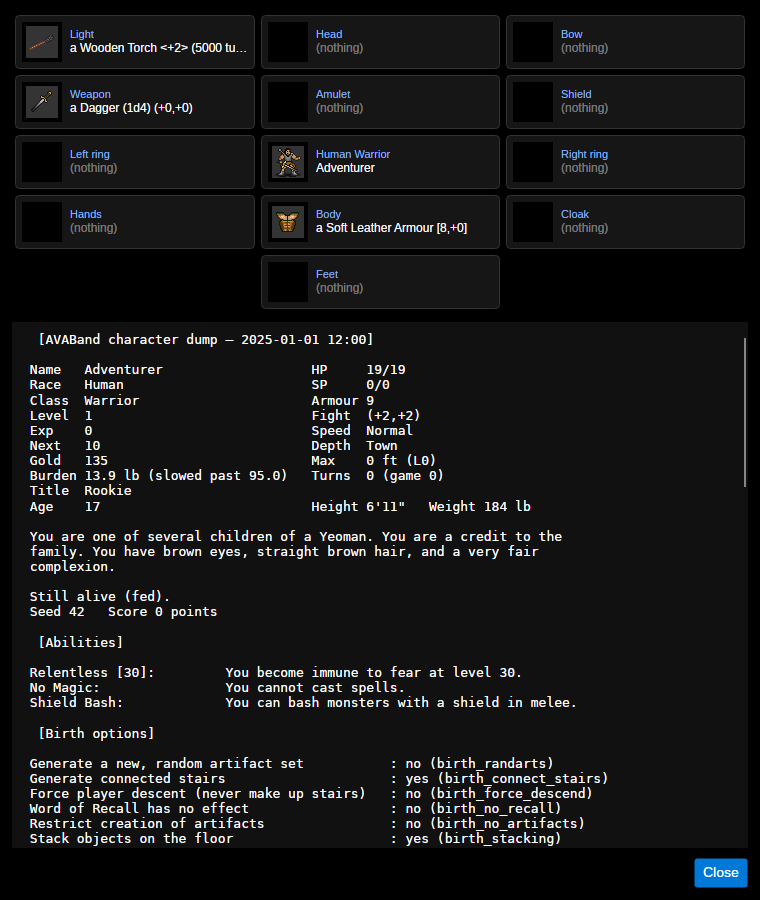
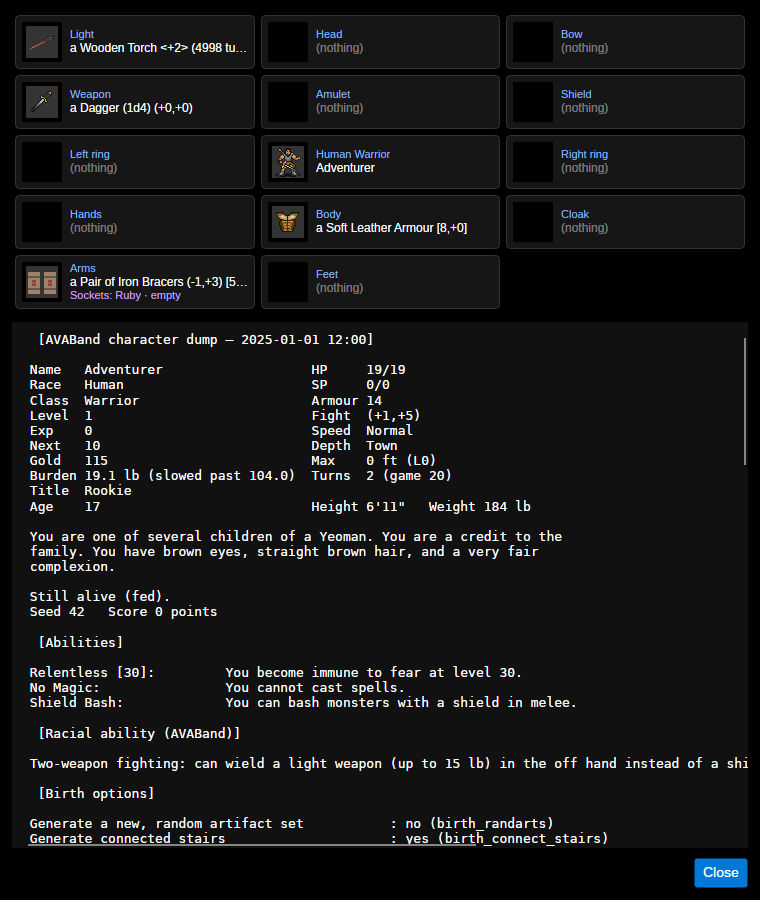
README: retake the character sheet screenshot with bracers and a socketed ruby

diff --git a/tests/Angband.Avalonia.Tests/ReadmeScreenshots.cs b/tests/Angband.Avalonia.Tests/ReadmeScreenshots.cs
@@ -106,6 +106,15 @@ public class ReadmeScreenshots
     public void CharacterSheet()
     {
         var (window, vm) = Open("warrior", tiles: true);
+        // Bracers with a ruby set, to show the arms slot and its sockets.
+        var game = vm.Game;
+        var bracers = game.Objects.Create("iron_bracers");
+        game.Knowledge.LearnKind(bracers.Kind);
+        game.Player.Inventory.Add(bracers);
+        game.Execute(new WieldCommand(bracers));
+        var ruby = game.Objects.Create("ruby");
+        game.Knowledge.LearnKind(ruby.Kind);
+        game.Execute(new SetGemCommand(game.Player.Inventory.Equipped.First(i => i.Kind.Id == "iron_bracers"), game.Player.Inventory.Add(ruby)!));
         vm.HandleAction(InputAction.CharacterSheet);
         Shoot(window.OwnedWindows.Last(), "character-sheet");
     }
